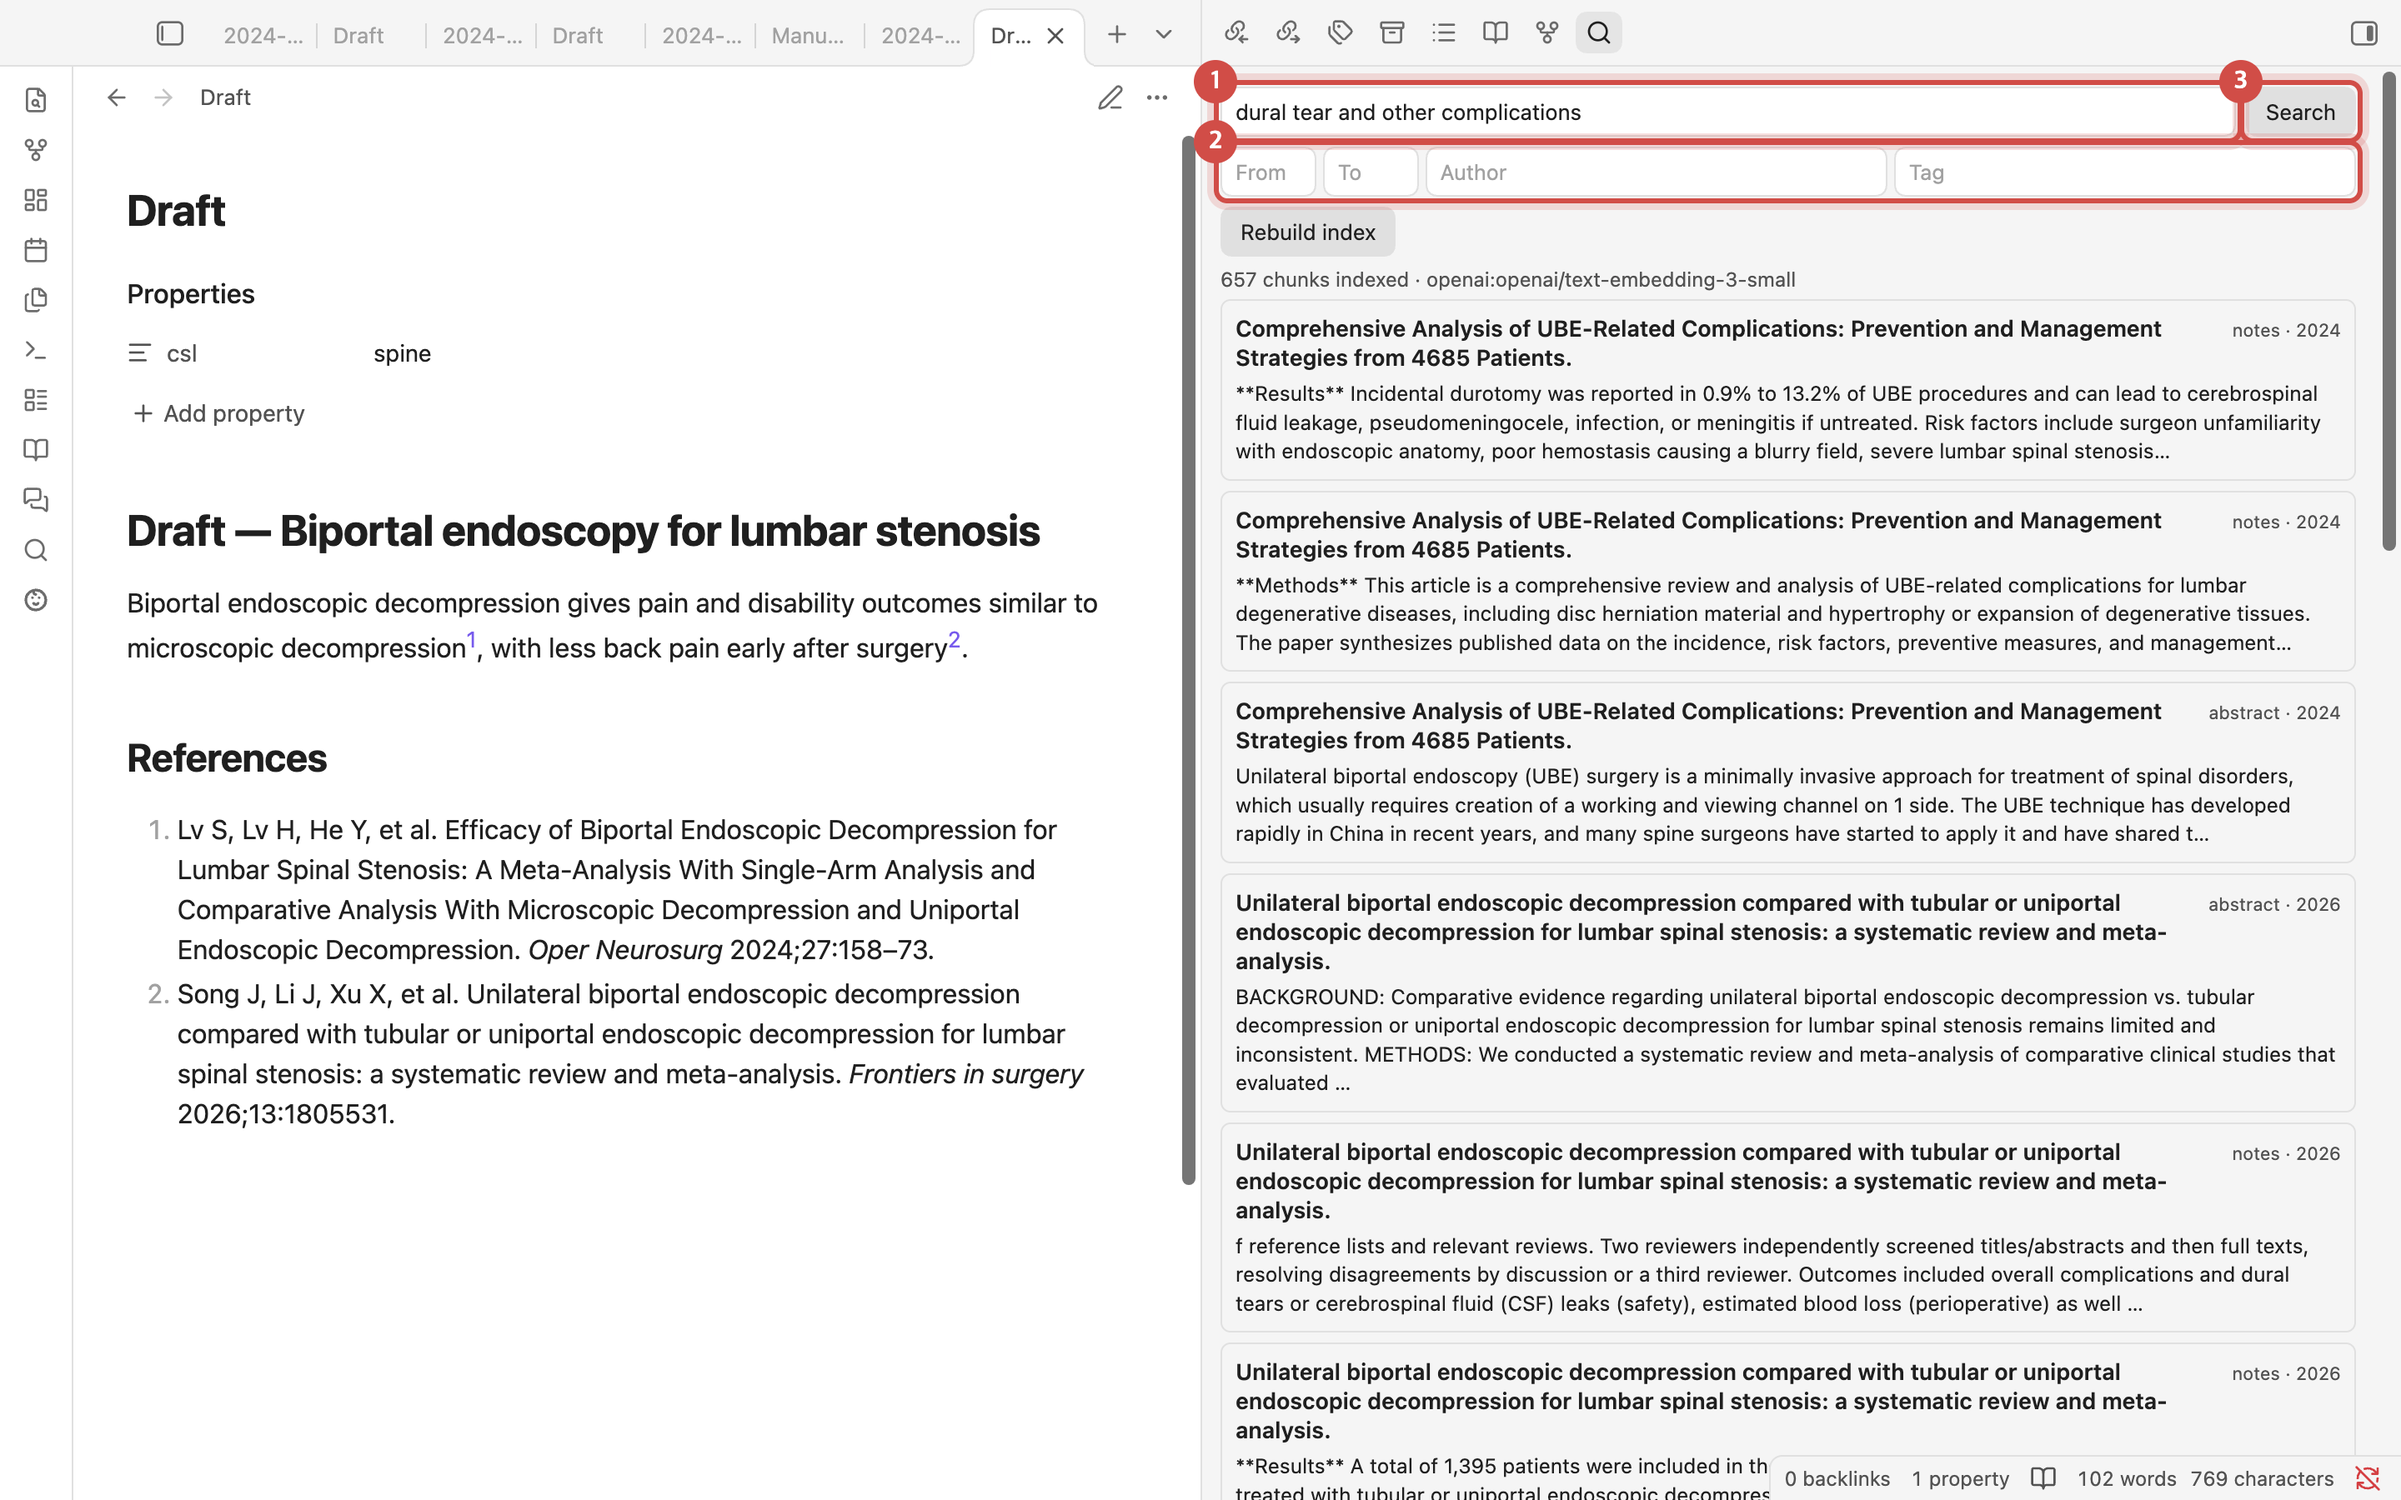
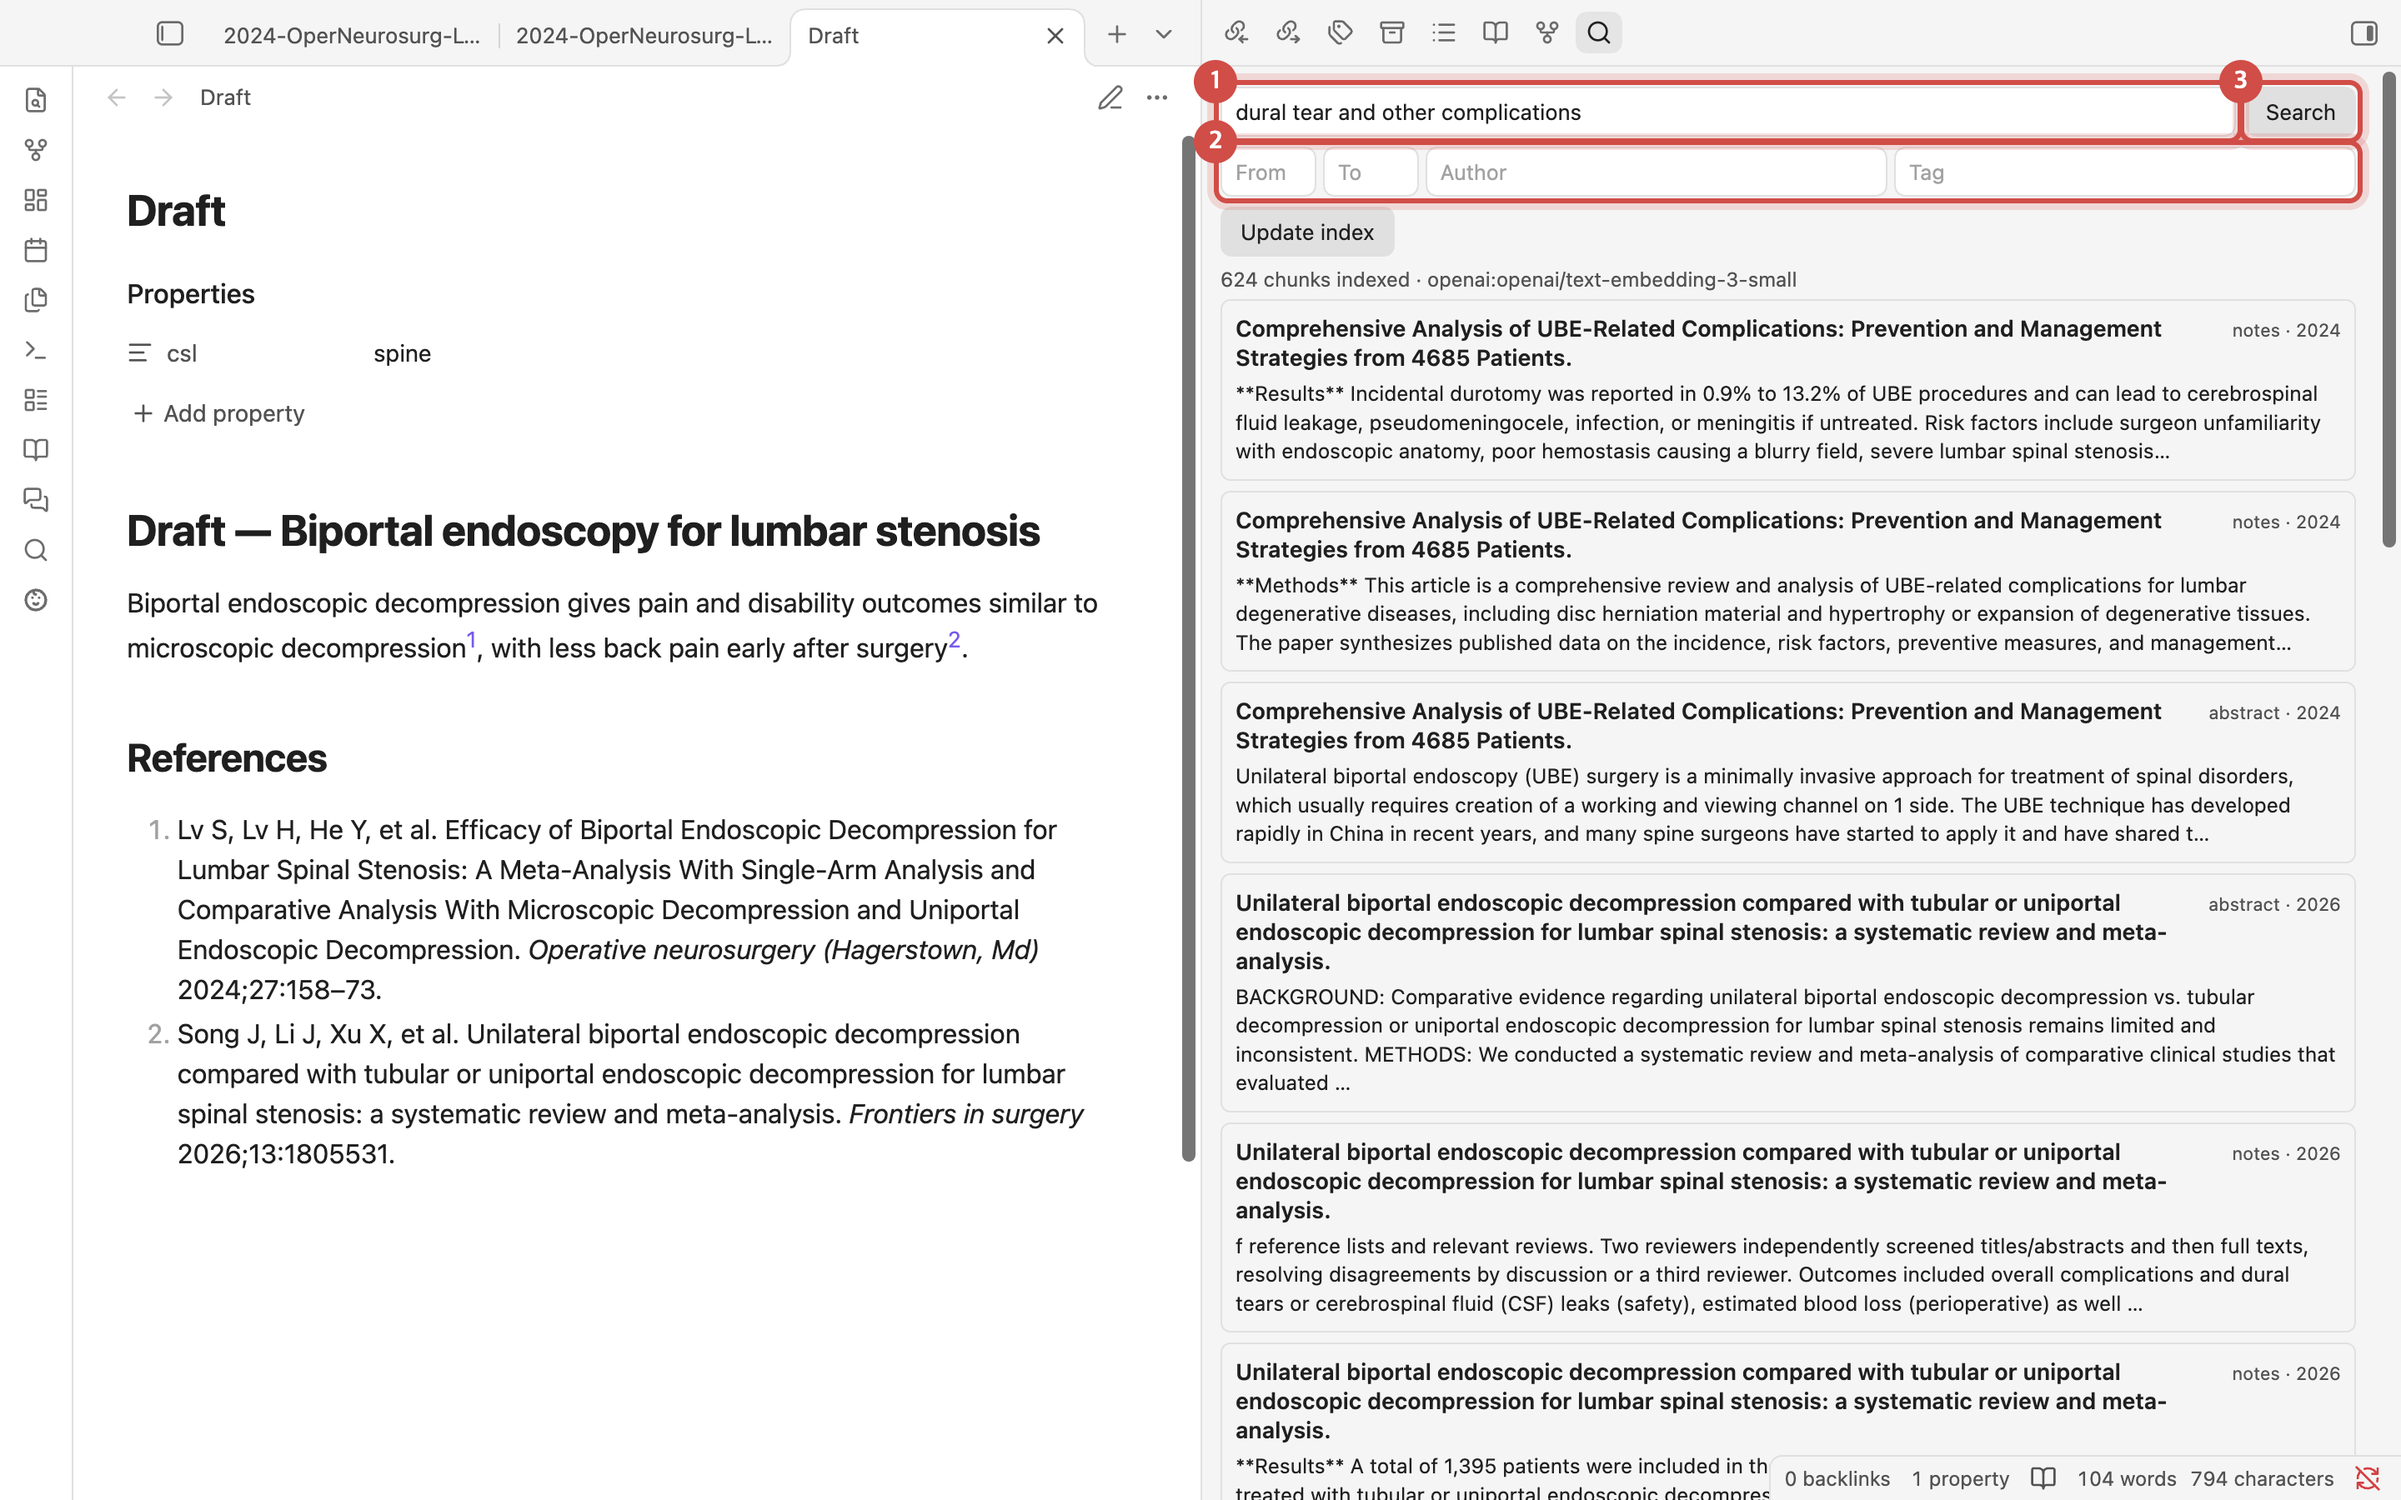
docs: re-shoot 09-search (en/ko/ja/zh/es) with the Update index button; Search pane status refreshes after a search
capture.py gains a 'search' mode (only 09-search) and a CDP_PORT override.

Claude-Session: https://claude.ai/code/session_01TzZuW4fZagApqTur59qQwb

Changed region(s): [[0.0625, 0.6222, 0.4688, 0.7778], [0.0938, 0.0, 0.375, 0.0311], [0.5312, 0.1556, 0.5625, 0.1867]]

diff --git a/src/ui/SearchView.ts b/src/ui/SearchView.ts
@@ -93,6 +93,7 @@ export class SearchView extends ItemView {
       });
       if (gen !== this.searchGen) return;
       loading.remove();
+      this.updateStatus(); // the pane may have opened before the index finished restoring
       this.renderHits(hits);
     } catch (e) {
       if (gen !== this.searchGen) return;

diff --git a/scripts/manual/capture.py b/scripts/manual/capture.py
@@ -8,6 +8,8 @@ Needs:
 
 Usage:  python scripts/manual/capture.py en      (or ko, ja, zh, es, ...)
         python scripts/manual/capture.py en new  (only the 0.8.8+ shots, 16-20; skips the PubMed/chat calls)
+        python scripts/manual/capture.py en search  (only 09-search)
+        CDP_PORT=9222 python ...  when Obsidian was started with another debug port
 
 The systematic-review shots (17-19) switch "Systematic review tools" on and give two references
 temporary include / kq fields; the snowball and reference-check notes are generated. Everything is put
@@ -23,7 +25,7 @@ import pathlib, sys, urllib.parse, subprocess
 from playwright.sync_api import sync_playwright
 
 LANG = sys.argv[1] if len(sys.argv) > 1 else 'en'
-CDP = 'http://127.0.0.1:9223'
+CDP = 'http://127.0.0.1:' + __import__('os').environ.get('CDP_PORT', '9223')
 ROOT = pathlib.Path(__file__).resolve().parents[2]
 VAULT = ROOT / '_testvault'
 OUT = ROOT / 'docs' / 'manual' / 'img' / LANG
@@ -35,6 +37,7 @@ RELATED = '.workspace-leaf-content[data-type="rag-obsidian-related"] '
 SCREEN = '.workspace-leaf-content[data-type="rag-obsidian-screening"] '
 PLUGIN = f'app.plugins.plugins["{PID}"]'
 ONLY_NEW = len(sys.argv) > 2 and sys.argv[2] == 'new'
+ONLY_SEARCH = len(sys.argv) > 2 and sys.argv[2] == 'search'  # just 09-search (no PubMed / chat calls)
 GUARDED = ['Draft.md', 'Draft (compiled).md', 'Manuscript.md']  # restored verbatim after the run
 SNOWBALL_SEEDS = ['References/2026-SpineJ-KazarianER-Primer.md', 'References/2019-WorldNeurosurg-LinGX-Systematic.md']
 ADDED = 'References/2024-OperNeurosurg-LvS-Efficacy.md'  # the paper the PubMed step adds
@@ -141,9 +144,28 @@ def main():
             reload_in(p, previous)
 
 
+def search_shot(p):
+    """09 · semantic search (builds the index first if needed)."""
+    # after a reload the index restores in the background; the pane's status line is drawn on open
+    wait_until(p, f'{PLUGIN}?.indexManager?.ready || !!{PLUGIN}?.indexManager?.restoreError', 60)
+    cmd(p, 'search', 1200)
+    if p.evaluate(f'!!document.querySelector(\'{SEARCH}\') && document.querySelector(\'{SEARCH}\').innerText.includes("not built")'):
+        cmd(p, 'rebuild-index', 1000)
+    p.fill(SEARCH + '.srag-header input', 'dural tear and other complications')
+    p.click(SEARCH + '.srag-header button')
+    wait_until(p, f'document.querySelectorAll(\'{SEARCH}.view-content > div\').length > 3', 90)
+    p.wait_for_timeout(2000)
+    shot(p, '09-search', [(SEARCH + '.srag-header input', 1), (SEARCH + '.srag-filters', 2), (SEARCH + '.srag-header button', 3)])
+
+
+
 def run(p, browser):
     p.evaluate('()=>{const w=require("@electron/remote").getCurrentWindow();w.setContentSize(1440,900);w.center();}')
     p.evaluate('app.workspace.leftSplit.collapse(); app.workspace.rightSplit.setSize(720)')
+    if ONLY_SEARCH:
+        open_file(p, 'Draft.md')
+        search_shot(p)
+        return
     if not ONLY_NEW:
         core_shots(p, browser)
     new_shots(p, browser)
@@ -231,15 +253,7 @@ def core_shots(p, browser):
     shot(p, '08-bibliography', [('.workspace-leaf.mod-active .markdown-reading-view p::text=Biportal', 1),
                                 ('.workspace-leaf.mod-active .markdown-reading-view h2', 2)])
 
-    # 09 · semantic search (rebuilds the index first if needed)
-    cmd(p, 'search', 1200)
-    if p.evaluate(f'!!document.querySelector(\'{SEARCH}\') && document.querySelector(\'{SEARCH}\').innerText.includes("not built")'):
-        cmd(p, 'rebuild-index', 1000)
-    p.fill(SEARCH + '.srag-header input', 'dural tear and other complications')
-    p.click(SEARCH + '.srag-header button')
-    wait_until(p, f'document.querySelectorAll(\'{SEARCH}.view-content > div\').length > 3', 90)
-    p.wait_for_timeout(2000)
-    shot(p, '09-search', [(SEARCH + '.srag-header input', 1), (SEARCH + '.srag-filters', 2), (SEARCH + '.srag-header button', 3)])
+    search_shot(p)
 
     # 10–11 · chat
     cmd(p, 'chat', 1500)

diff --git a/CHANGELOG.md b/CHANGELOG.md
@@ -6,6 +6,9 @@ Format loosely follows [Keep a Changelog](https://keepachangelog.com/); versions
 
 ## [Unreleased]
 
+### Fixed
+- The Search pane no longer says "Index not built" after a search when it was opened while the index was still loading.
+
 ## [0.11.4] — 2026-11-23
 
 ### Changed — search index
